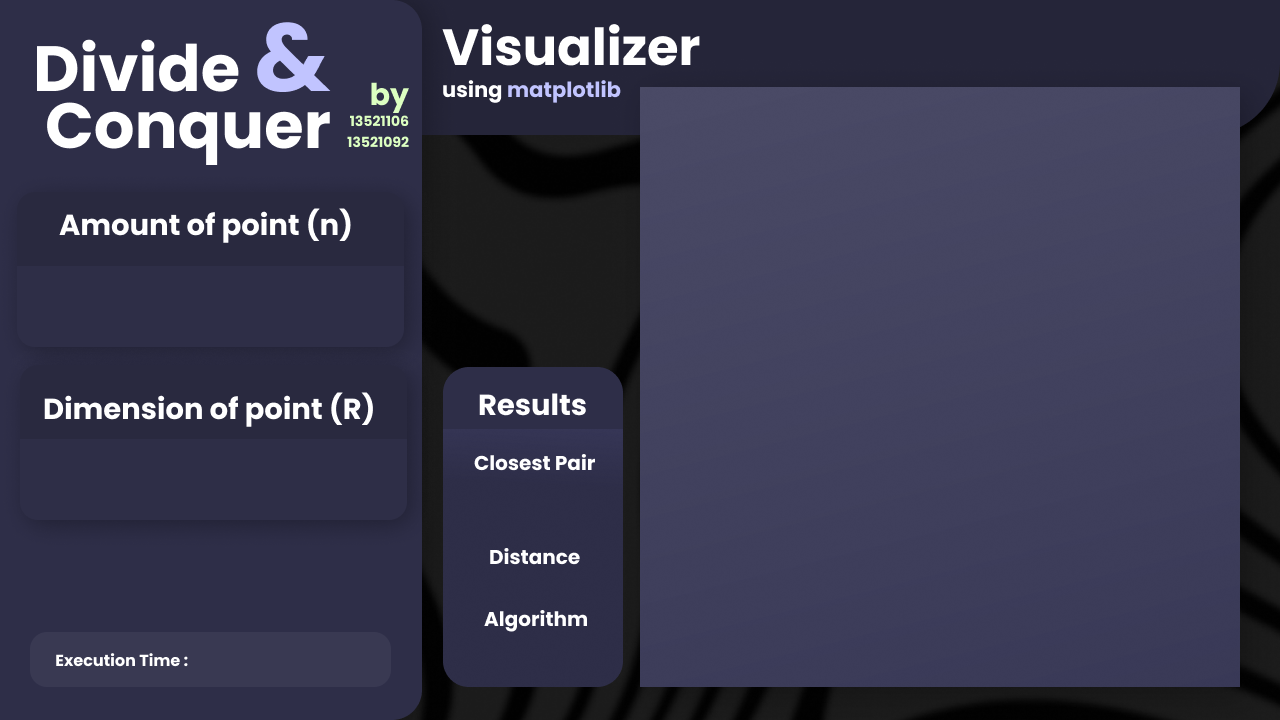
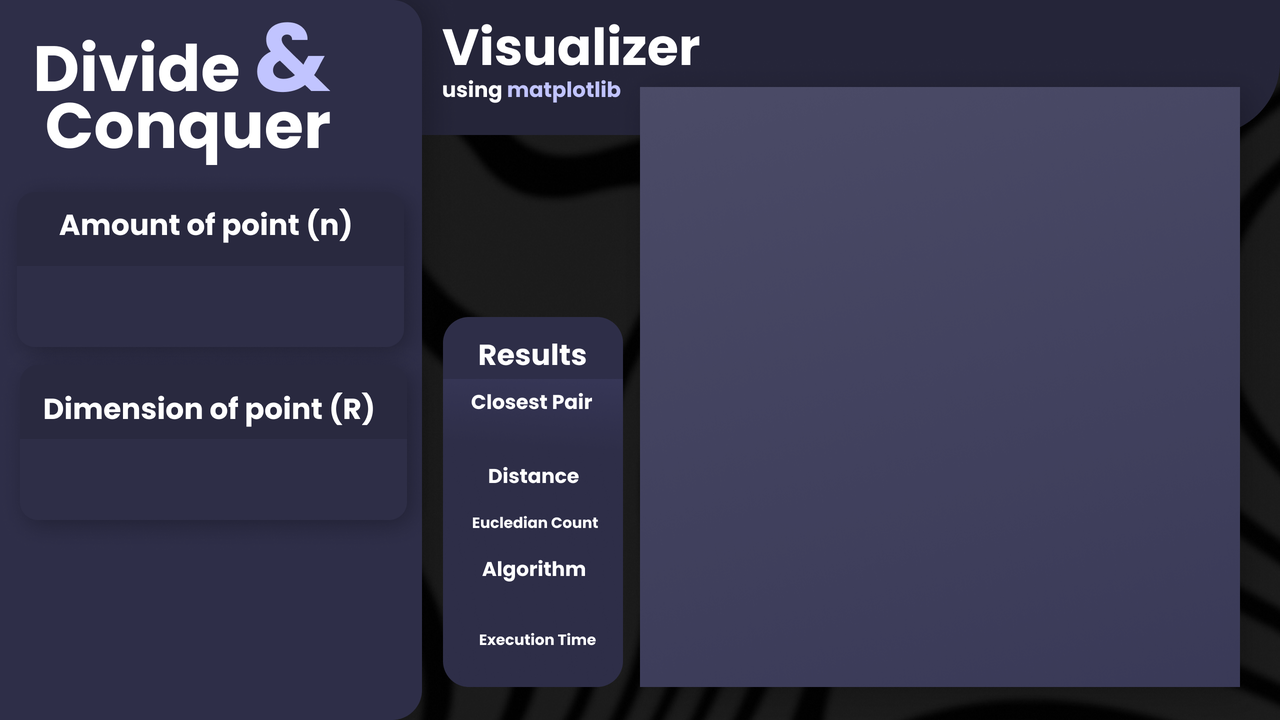
change GUI to match specification

diff --git a/src/mainWindows.py b/src/mainWindows.py
@@ -1,20 +1,20 @@
-from generateCoordinate import generateCoordinate, printCoordinate
-from displayCoordinate import displayCoordinate 
+from generateCoordinate import generateCoordinate
 from bruteForce import closestPair
 from divideAndConquer import solveDivideAndConquer
 from utilities import calculateDistance, pointToStr
 from time import time
 import matplotlib.pyplot as plt
 from matplotlib.backends.backend_tkagg import FigureCanvasTkAgg, NavigationToolbar2Tk
-
 from pathlib import Path
-
 from tkinter import Tk, Canvas, Entry, Frame, Button, PhotoImage, Label
+import webbrowser
 
 
 OUTPUT_PATH = Path(__file__).parent
 ASSETS_PATH = OUTPUT_PATH / Path(r"./assets/frame0")
 
+global Array
+Array = -999
 
 def relative_to_assets(path: str) -> Path:
     return ASSETS_PATH / Path(path)
@@ -24,78 +24,50 @@ def validate_int(val):
         return True
     else:
         return False
-    
-def calculate_BF():
+
+def generate_array():
     clear_label(window)
     input_n = entry_1.get()
     input_R = entry_2.get()
     if(input_n=="0" or input_R=="0" or input_n=="" or input_R==""):
-        show_error()
+        show_message("Input cannot be blank\nor zero","#FFC9C1")
     else:
+        show_message("Point generated\nsucessfully!","#DCFFC1")
         n = int(input_n)
         R = int(input_R)
+        global Array
         Array = generateCoordinate(n, R)
+
+def calculate_BF():
+    clear_label(window)
+    if(Array == -999):
+        show_message("Point is not generated\n,yet!","#FFC9C1")
+    else:
         start = time() * 1000
-        first, second = closestPair(Array)
-        distance = calculateDistance(Array[first], Array[second], R)
+        first, second, eucledianCount = closestPair(Array)
+        distance = calculateDistance(Array[first], Array[second], len(Array[0]))
         finish = time() * 1000
         time_taken = finish - start
-        print("Closest Pair: ", end = '')
-        printCoordinate(Array[first])
-        printCoordinate(Array[second])
-        print()
+        show_results(Array[first], Array[second],distance,"Brute Force",time_taken,eucledianCount)
 
-        print(f'Distance: {distance}')
-
-        print("Executed Time: ", time_taken, "ms")
-        show_execute_time(time_taken)
-        show_results(Array[first], Array[second],distance,"Brute Force")
-
-        if (R == 3):
+        if (len(Array[0]) == 3):
             show_plot(Array, Array[first], Array[second])
 
 def calculate_DnC():
     clear_label(window)
-    input_n = entry_1.get()
-    input_R = entry_2.get()
-    if(input_n=="0" or input_R=="0" or input_n=="" or input_R==""):
-        show_error()
+    if(Array == -999):
+        show_message("Point is not generated\n,yet!","#FFC9C1")
     else:
-        n = int(input_n)
-        R = int(input_R)
-        Array = generateCoordinate(n, R)
         start = time() * 1000
-        first, second, distance = solveDivideAndConquer(Array, n, R)
+        first, second, distance, eucledianCount = solveDivideAndConquer(Array, len(Array), len(Array[0]))
         finish = time() * 1000
         time_taken = finish - start
-        print("Closest Pair: ", end = '')
-        printCoordinate(Array[first])
-        printCoordinate(Array[second])
-        print()
+        show_results(Array[first], Array[second],distance,"Divide\n& Conquer",time_taken,eucledianCount)
 
-        print(f'Distance: {distance}')
-
-        print("Executed Time: ", time_taken, "ms")
-
-        show_execute_time(time_taken)
-        show_results(Array[first], Array[second],distance,"Divide \n& Conquer")
-
-        if (R == 3):
+        if (len(Array[0]) == 3):
             show_plot(Array, Array[first], Array[second])
-
-def show_execute_time(time):
-    executed = Label(window,
-                     text = str(round(time,2)) + " ms", 
-                     font=("Arial Black",10),
-                     anchor="w",
-                     bg="#393952",
-                     fg="#DCFFC1")
-    executed.place(
-    x=200.0,
-    y=649.0,
-)
-
-def show_results(point1,point2,dist,algorithm):
+    
+def show_results(point1,point2,dist,algorithm,time,eucledian):
     point_1 = pointToStr(point1)
     point_2 = pointToStr(point2)
     result_p1 = Label(window,
@@ -106,7 +78,7 @@ def show_results(point1,point2,dist,algorithm):
                      fg="#DCFFC1")
     result_p1.place(
     x=450.0,
-    y=480.0,
+    y=414.0,
     )
     result_p2 = Label(window,
                      text = point_2, 
@@ -116,7 +88,7 @@ def show_results(point1,point2,dist,algorithm):
                      fg="#DCFFC1")
     result_p2.place(
     x=450.0,
-    y=510.0,
+    y=436.0,
     )
     result_dist = Label(window,
                      text = str(round(dist,2)), 
@@ -125,8 +97,8 @@ def show_results(point1,point2,dist,algorithm):
                      bg="#2E2E48",
                      fg="#DCFFC1")
     result_dist.place(
-    x=510.0,
-    y=570.0,
+    x=505.0,
+    y=485.0,
     )
     result_algorithm = Label(window,
                      text = algorithm, 
@@ -136,7 +108,27 @@ def show_results(point1,point2,dist,algorithm):
                      fg="#DCFFC1")
     result_algorithm.place(
     x=490.0,
-    y=635.0,
+    y=585.0,
+    )
+    executed = Label(window,
+                     text = str(round(time,2)) + " ms", 
+                     font=("Arial Black",10),
+                     anchor="w",
+                     bg="#2E2E48",
+                     fg="#DCFFC1")
+    executed.place(
+    x=500.0,
+    y=649.0,
+    )
+    eucledianCount = Label(window,
+                     text = eucledian, 
+                     font=("Arial Black",10),
+                     justify="center",
+                     bg="#2E2E48",
+                     fg="#DCFFC1")
+    eucledianCount.place(
+    x=510.0,
+    y=530.0,
     )
 
 def show_plot(arrayCoordinate, c1, c2):
@@ -166,23 +158,27 @@ def show_plot(arrayCoordinate, c1, c2):
     
     canvas.graph = canvas_figure
 
-def show_error():
-    errorMsg = Label(window,
-                     text = "Input cannot be blank\nor zero", 
+def show_message(message,color):
+    messageShow = Label(window,
+                     text = message, 
                      font=("Arial Black",10),
                      anchor="w",
                      justify="left",
                      bg="#393952",
-                     fg="#FFC9C1")
-    errorMsg.place(
-    x=200.0,
-    y=639.0,
+                     fg=color)
+    messageShow.place(
+    x=450.0,
+    y=250.0,
 )
 
 def clear_label(window):
     for child in window.winfo_children():
         if isinstance(child, Label):
             child.destroy()
+
+def open_github():
+    url = 'https://github.com/farhanfahreezy/Tucil2_13521092_13521106'
+    webbrowser.open(url)
 
 window = Tk()
 
@@ -276,7 +272,7 @@ button_1 = Button(
 )
 button_1.place(
     x=24.0,
-    y=539.0,
+    y=631.0,
     width=182.0,
     height=73.0
 )
@@ -293,9 +289,41 @@ button_2 = Button(
 )
 button_2.place(
     x=215.0,
-    y=539.0,
+    y=631.0,
     width=182.0,
     height=73.0
+)
+
+button_image_3 = PhotoImage(
+    file=relative_to_assets("button_3.png"))
+button_3 = Button(
+    image=button_image_3,
+    borderwidth=0,
+    highlightthickness=0,
+    command=generate_array,
+    relief="flat"
+)
+button_3.place(
+    x=16.0,
+    y=533.0,
+    width=386.0,
+    height=86.0
+)
+
+button_image_4 = PhotoImage(
+    file=relative_to_assets("button_4.png"))
+button_4 = Button(
+    image=button_image_4,
+    borderwidth=0,
+    highlightthickness=0,
+    command=open_github,
+    relief="flat"
+)
+button_4.place(
+    x=338.0,
+    y=72.0,
+    width=79.0,
+    height=84.0
 )
 window.resizable(False, False)
 window.mainloop()

diff --git a/src/divideAndConquer.py b/src/divideAndConquer.py
@@ -2,7 +2,6 @@ from utilities import quickSort, calculateDistance
 
 def closestStrip(strip: list[list[float]], size: int, delta: float) -> float:
     """Find the smallest distance in the strip array.
-
     :param strip: Strip array solved in a two dimensional plane
     :param size: Number of elements in the array
     :param delta: Delta value
@@ -30,7 +29,6 @@ def closestStrip(strip: list[list[float]], size: int, delta: float) -> float:
 
 def divideAndConquer(Array: list[list[float]], size: int, dimension: int) -> (list[float], list[float], float):
     """Solve the closest pair problem with divide and conquer algorithm, returns the index of closest points. Array should be sorted by the last dimension beforehand.
-
     :param Array: Array of points
     :param size: Number of elements in the array
     :dimension: Number of dimension in the points
@@ -84,7 +82,6 @@ def divideAndConquer(Array: list[list[float]], size: int, dimension: int) -> (li
 
 def solveDivideAndConquer(Array: list[list[float]], size: int, dimension: int) -> (int, int, float):
     """Calls the divideAndConquer function to retrieve the values of first_point and second_point, then returns the index of first_point and second_point from the unsorted Array
-
     :param Array: Array of points
     :param size: Number of elements in the array
     :dimension: Number of dimension in the points

diff --git a/src/main.py b/src/main.py
@@ -13,12 +13,13 @@ def main():
 
     Array = generateCoordinate(n, R)
 
-    choice = input("1) Brute Force\n2) Divide and Conquer\nChoose Algorithm    : ")
+    choice = int(input("1) Brute Force\n2) Divide and Conquer\nChoose Algorithm    : "))
 
     start = time() * 1000
 
-    if (choice == 0):
-        first, second = closestPair(Array)
+    # eucledianCount = 10
+    if (choice == 1):
+        first, second, eucledianCount = closestPair(Array)
         distance = calculateDistance(Array[first], Array[second], R)
     else:
         first, second, distance = solveDivideAndConquer(Array, n, R)
@@ -33,6 +34,8 @@ def main():
     print()
 
     print(f'Distance: {distance}')
+
+    print(f'Eucledian Count: {eucledianCount}')
 
     print("Executed Time: ", time_taken, "ms")
 

diff --git a/src/bruteForce.py b/src/bruteForce.py
@@ -4,13 +4,13 @@ def closestPair(arrayCoordinate):
     closest = 1000000
     tempi = -1
     tempj = -1
-    count = 0
+    eucledianCount = 0
     for i in range(len(arrayCoordinate)-1):
         for j in range(i+1,len(arrayCoordinate)):
-            count+=1
+            eucledianCount+=1
             temp = calculateDistance(arrayCoordinate[i],arrayCoordinate[j],len(arrayCoordinate[i]))
             if temp<closest:
                 closest = temp
                 tempi = i
                 tempj = j
-    return tempi,tempj
+    return tempi,tempj,eucledianCount
